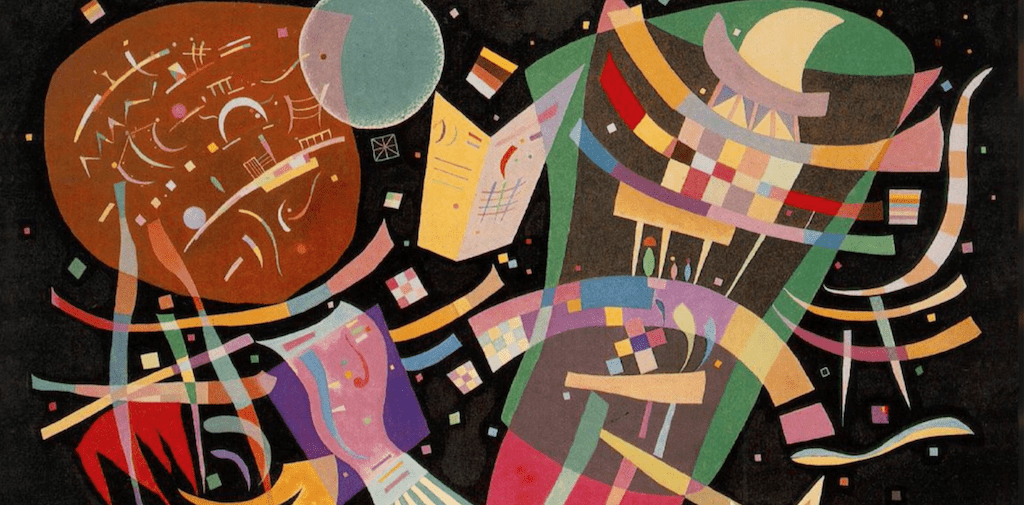
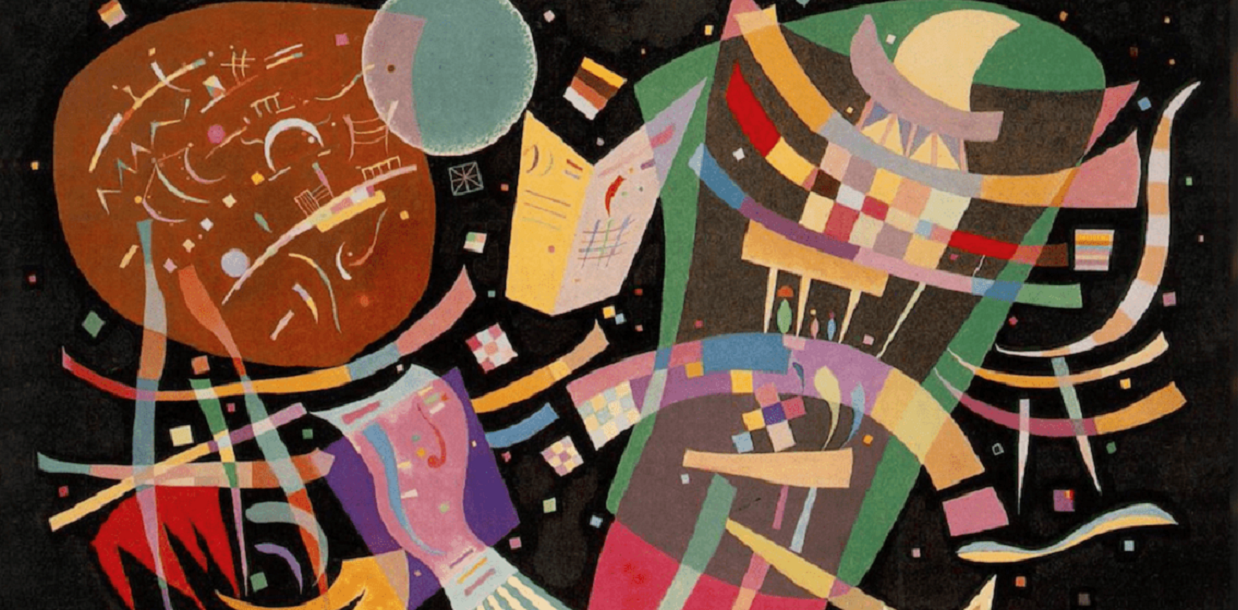
About Page parallax fixed

diff --git a/generative_art_website_project/shop/Templates/shop/playground.html b/generative_art_website_project/shop/Templates/shop/playground.html
@@ -1,0 +1,19 @@
+{% extends 'shop/main.html' %}
+{% load static %}
+{% block content %}
+    <header>
+        <script src="https://cdn.jsdelivr.net/npm/p5@1.0.0/lib/p5.js"></script>
+        <script src="{% static 'js/playground.js' %}"></script>
+    </header>
+    <h2 style="text-align: center; margin-left: auto">Create Some Mandala Art</h2>
+    <p style="font-size: 0.8em; text-align: center">Drag your mouse on the canvas!
+        Press <code>ENTER/RETURN</code> to clear the screen or <code>s</code> to save your Mandala Sketch!</p>
+    <div style="display: flex; justify-content: center; align-items: center; margin-bottom: 2em">
+        <input class="input-small" id="symmetryInput" placeholder="# Reflections" type="number" style="margin-right: 1em; text-align: center;">
+        <button class="button" onclick="setSymmetry()">Set</button>
+    </div>
+    <div id="sketch-holder" class="align-center">
+
+    </div>
+
+{% endblock content %}

diff --git a/generative_art_website_project/shop/Templates/shop/about.html b/generative_art_website_project/shop/Templates/shop/about.html
@@ -84,7 +84,7 @@
             <li><a href="{% url 'playground-home' %}">Playground</a></li>
             <li><a href="{% url 'ai-art' %}">AI</a></li>
             <li><a href="{% url 'shop' %}">Shop</a></li>
-            <li><a href="{% url 'about' %}">Shop</a></li>
+            <li><a href="{% url 'about' %}">About</a></li>
             <li><a href="{% url 'cart' %}">Cart</a></li>
         </ul>
     </nav>
@@ -145,7 +145,7 @@
             </div>
         </div>
 
-        <section class="parallax" style="background: url('{% static 'images/static/11.PNG' %}') fixed;">
+        <section class="parallax" style="background: url('{% static 'images/static/12.PNG' %}') fixed;">
         </section>
 
 
